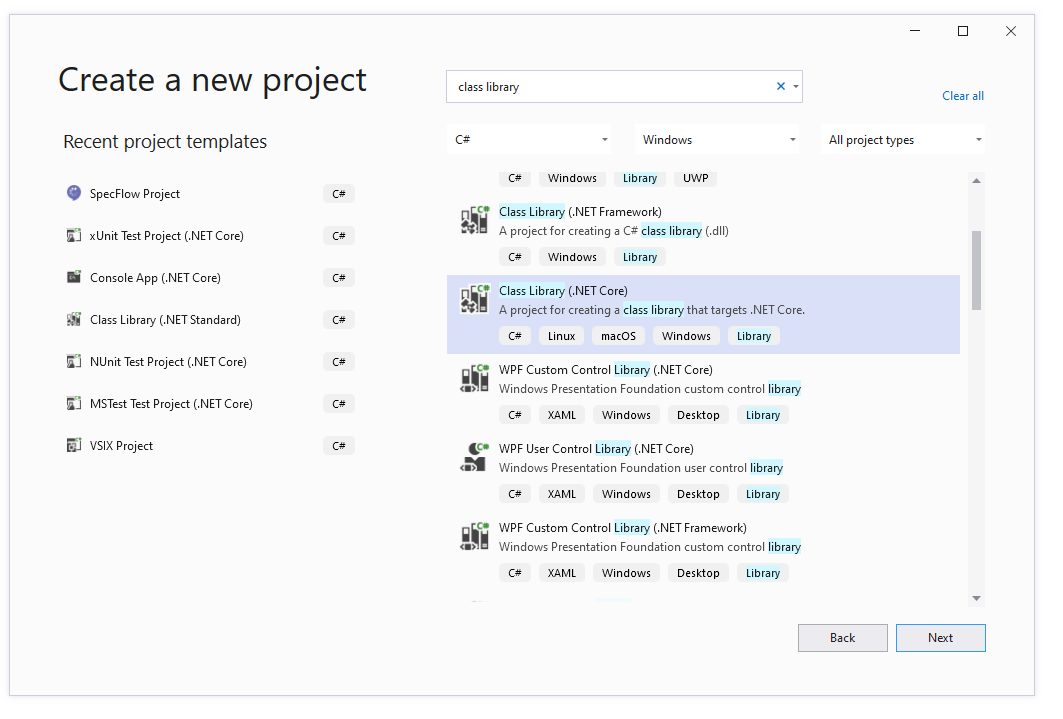
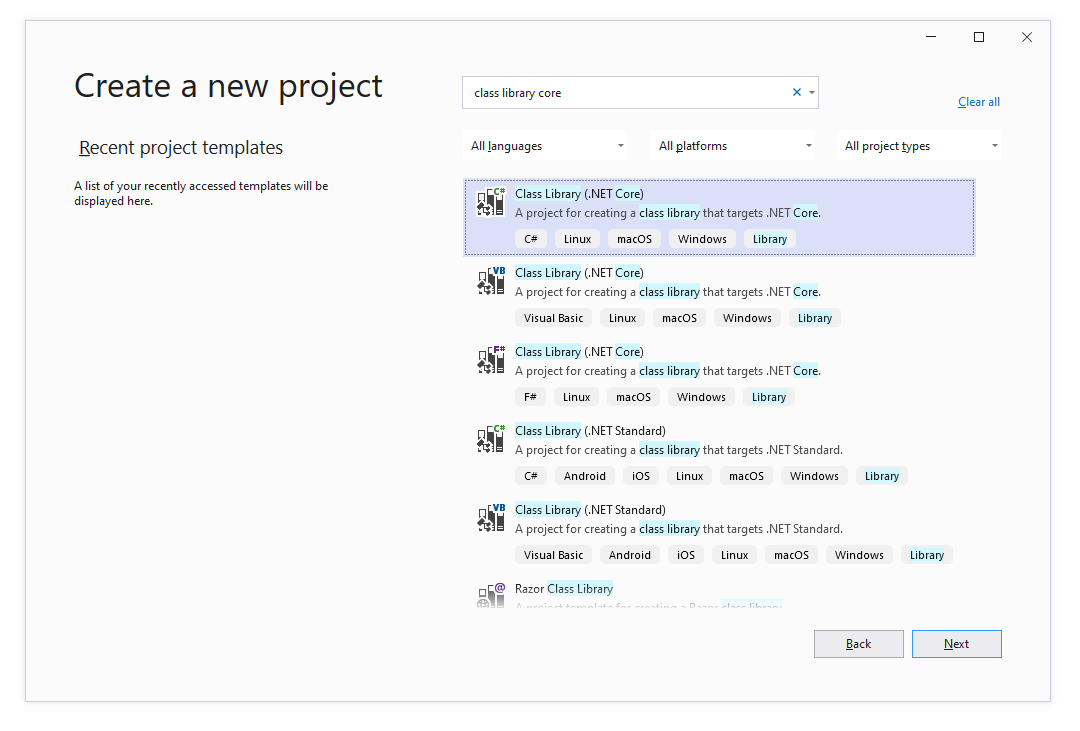
Update step2 images, consistency, phrasing

diff --git a/GettingStarted/Step2.md b/GettingStarted/Step2.md
@@ -4,21 +4,20 @@ Create Calculator Project
 ⏲ 10 minutes
 
 In this step you'll create the application that will be tested, also called system under test (SUT).
+The application will be a simple calculator in a C# class library.
 
-Implement a simple calculator class library in C#.
+Open Visual Studio and create a new C# class library as follows.
 
-Open up Visual Studio and create a new C# class library.
-
-Select "Create a new project" from the Visual Studio startup dialog  
+Select "Create a new project" from the Visual Studio startup dialog.  
 ![Visual Studio Startup Dialog](../_static/step2/vs_startup_dialog.png)  
 
-Search for "class library" and select "Class Library (.NET Core)" as the new project to create  
+Search for "class library core" and select the "Class Library (.NET Core)" project template and click "Next".  
 ![Create Class Library](../_static/step2/create_class_lib.png)  
 
-Specify the project name to "CalculatorLibrary" and choose a location. In our case it is `C:\work`.  
+Enter the project name and solution name "SpecFlowCalculator" and choose a location. In our case the solution will be saved to `C:\work`.  
 ![Configure Class Library Project](../_static/step2/configure_project.png)  
 
-After clicking "Create" Visual Studio creates a new project for you.  
+Click "Create" and Visual Studio creates the new class library project.  
 ![Class Library Created](../_static/step2/created_project.png)
 
 Rename `Class1.cs` to `Calculator.cs` and overwrite the content with the following code.
@@ -26,7 +25,7 @@ Rename `Class1.cs` to `Calculator.cs` and overwrite the content with the followi
 ``` csharp
 using System;
 
-namespace CalculatorLibrary
+namespace SpecFlowCalculator
 {
     public class Calculator
     {
@@ -41,3 +40,5 @@ namespace CalculatorLibrary
 }
 
 ```
+
+Build the solution. The build should succeeed.

diff --git a/GettingStarted/Step1.md b/GettingStarted/Step1.md
@@ -14,7 +14,7 @@ Download the extension for your version of Visual Studio:
 
 If you use an older version of Visual Studio, you'll have to upgrade to one of the supported versions.
 
-When the extension is successfully installed, you'll see it in the list in the "Managed Extensions" dialog of Visual Studio.
+When the extension is successfully installed, you can see it in the list of "Installed" extensions in the "Extensions -> Manage Extensions" dialog of Visual Studio.
 
 ![Managed Extensions Dialog - Exstension Installed](../_static/step1/extension_dialog_installed.png)
 
